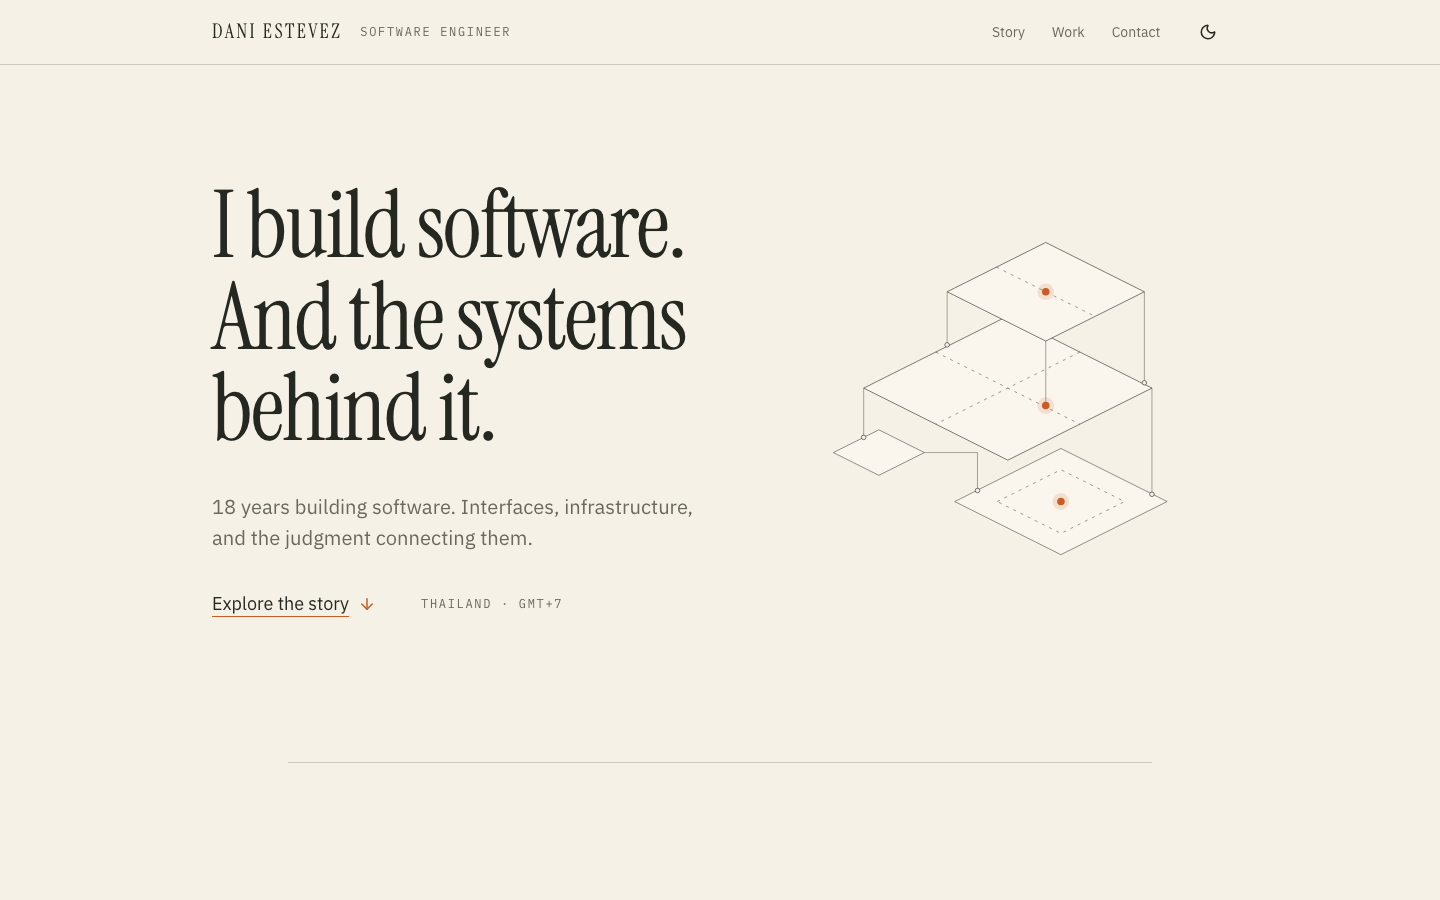
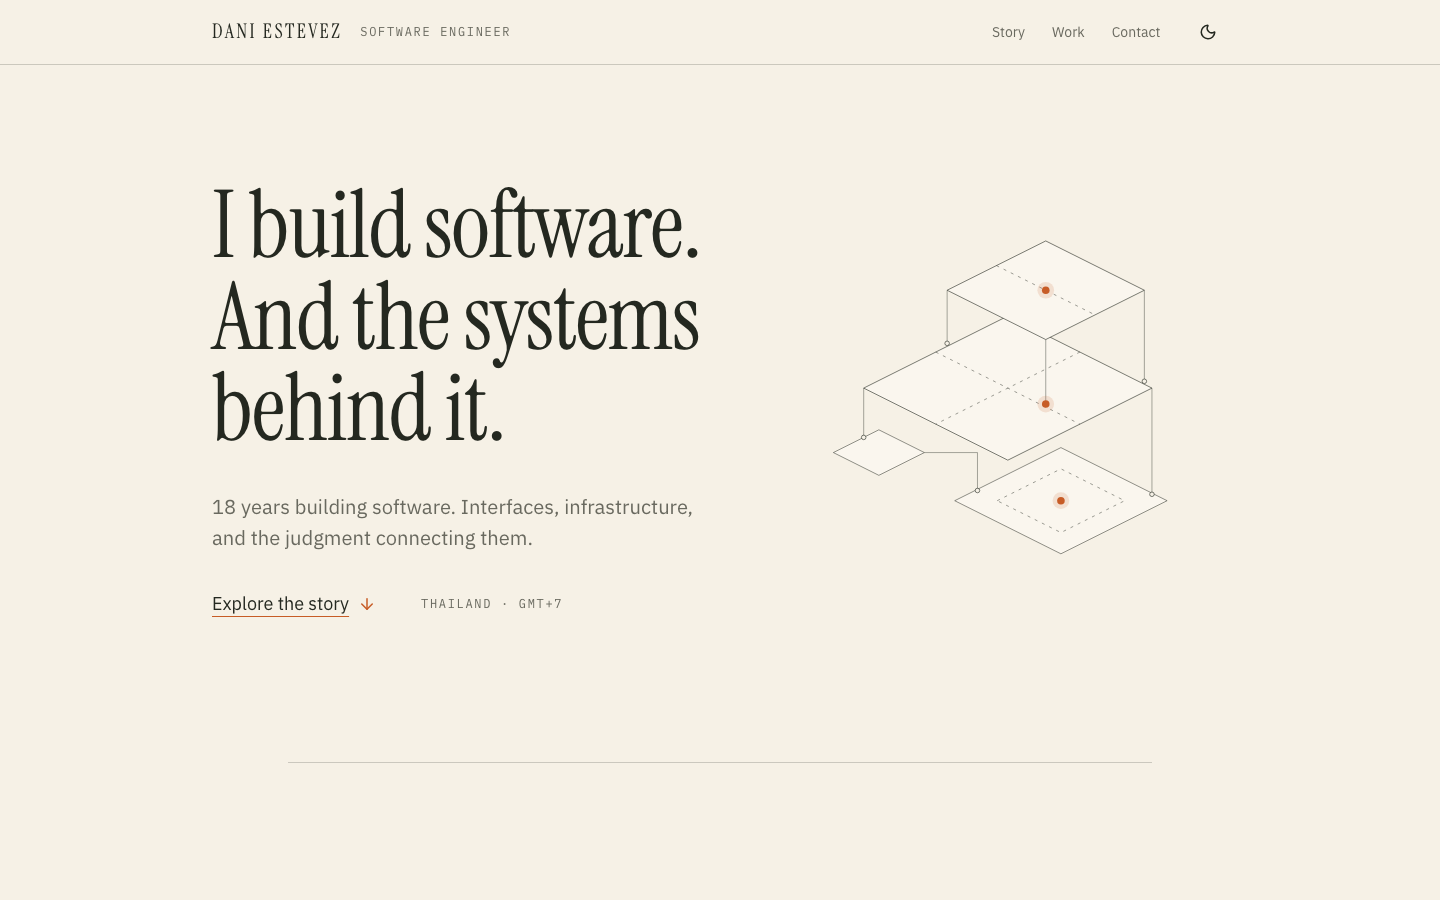
fix(portfolio): address review — focus outline, reduced motion, inert specimen, overflow
- Toggle drops its outline-none/ring so the global :focus-visible outline shows.
- One CSS reduced-motion rule beside MotionProvider; hero float runs once (<5s).
- /system specimen header+hero is inert (one Main nav, one h1 in the a11y tree).
- Scheme toggle reads the document, so two toggles never disagree.
- Header links wrap below ~360px; product host wraps; timeline end not masked.
- Heading keeps the editorial letter-spacing tokens; panel colour rule moved to
  the base layer and re-declares destructive/warning/shadow; disabled TextLink
  gets role=link; Reveal and Toggle use motion tokens, no inline styles.

diff --git a/src/components/ui/toggle.tsx b/src/components/ui/toggle.tsx
@@ -14,7 +14,7 @@ import { cn } from '@/lib/utils'
  * global `:focus-visible` outline from globals.css, like every other control on the page.
  */
 const toggleVariants = cva(
-  "inline-flex items-center justify-center gap-2 rounded-md text-sm font-medium hover:bg-muted/40 hover:text-muted-foreground disabled:pointer-events-none disabled:opacity-50 data-[state=on]:text-accent-foreground [&_svg]:pointer-events-none [&_svg:not([class*='size-'])]:size-4 [&_svg]:shrink-0 transition-[color,background-color,box-shadow] duration-200 ease-in-out aria-invalid:ring-destructive/20 dark:aria-invalid:ring-destructive/40 aria-invalid:border-destructive whitespace-nowrap",
+  "inline-flex items-center justify-center gap-2 rounded-md text-sm font-medium hover:bg-muted/40 hover:text-muted-foreground disabled:pointer-events-none disabled:opacity-50 data-[state=on]:text-accent-foreground [&_svg]:pointer-events-none [&_svg:not([class*='size-'])]:size-4 [&_svg]:shrink-0 transition-[color,background-color,box-shadow] duration-(--duration-base) ease-editorial aria-invalid:ring-destructive/20 dark:aria-invalid:ring-destructive/40 aria-invalid:border-destructive whitespace-nowrap",
   {
     variants: {
       variant: {
@@ -66,19 +66,13 @@ function Toggle({
   // highlight and content are presentational.
   return (
     <TogglePrimitive.Root pressed={isPressed} onPressedChange={handlePressedChange} disabled={disabled} asChild>
-      <motion.button
-        data-slot='toggle'
-        className='relative rounded-md outline-none focus-visible:ring-ring/50 focus-visible:ring-[3px]'
-        whileTap={{ scale: 0.95 }}
-        {...props}
-      >
+      <motion.button data-slot='toggle' className='relative rounded-md' whileTap={{ scale: 0.95 }} {...props}>
         <AnimatePresence>
           {isPressed && (
             <motion.div
               data-slot='toggle-highlight'
               data-state={state}
-              className='bg-accent rounded-md'
-              style={{ position: 'absolute', zIndex: 0, inset: 0 }}
+              className='absolute inset-0 z-0 rounded-md bg-accent'
               initial={{ opacity: 0 }}
               animate={{ opacity: 1 }}
               exit={{ opacity: 0 }}
@@ -89,8 +83,11 @@ function Toggle({
           data-slot='toggle-item'
           data-state={state}
           data-disabled={disabled}
-          className={cn(toggleVariants({ variant, size }), className, 'cursor-pointer disabled:cursor-not-allowed')}
-          style={{ position: 'relative', zIndex: 1 }}
+          className={cn(
+            toggleVariants({ variant, size }),
+            className,
+            'relative z-1 cursor-pointer disabled:cursor-not-allowed'
+          )}
         >
           {children as React.ReactNode}
         </motion.div>

diff --git a/src/app/globals.css b/src/app/globals.css
@@ -147,11 +147,14 @@
   --success: var(--moss);
   --success-foreground: var(--moss-foreground);
 
+  --destructive: #e5674f;
+  --destructive-foreground: #202823;
+  --warning: #e0a548;
+  --warning-foreground: #202823;
+  --header-background: #202823;
+  --shadow-color: rgb(0 0 0 / 0.4);
+  /* Charts and gradients are not used on the panel; they keep the page scheme's values. */
   color-scheme: dark;
-  /* `color` inherits as an already-resolved value, so the panel re-declares it alongside
-     the variables; otherwise text would keep the page scheme's ink on the panel. */
-  color: var(--foreground);
-  background-color: var(--background);
 }
 
 /* Static design tokens: type roles, type scale, layout, motion. Values in px are the brief's
@@ -200,7 +203,7 @@
   --duration-fast: 150ms;
   --duration-base: 250ms;
   --duration-reveal: 500ms;
-  --duration-drift: 9s;
+  --duration-drift: 4.5s;
 
   /* Soft, low shadows — the brief rules out heavy ones. */
   --shadow-2xs: 0 1px 0 0 var(--shadow-color);
@@ -282,6 +285,24 @@
     -webkit-font-smoothing: antialiased;
   }
   /* One visible focus treatment for every keyboard-focusable element. */
+  /* `color` inherits as an already-resolved value, so the panel re-declares it alongside its
+     variables; otherwise text would keep the page scheme's ink. In the base layer so a
+     utility on the Panel itself still wins. */
+  [data-surface="panel"] {
+    color: var(--foreground);
+    background-color: var(--background);
+  }
+  /* The CSS half of reduced motion (motion/react's half is MotionProvider): transitions finish
+     instantly, so hover nudges, chevrons and the /system duration demos do not move. */
+  @media (prefers-reduced-motion: reduce) {
+    *,
+    ::before,
+    ::after {
+      transition-duration: 0.01ms !important;
+      animation-duration: 0.01ms !important;
+      animation-iteration-count: 1 !important;
+    }
+  }
   :focus-visible {
     outline: 2px solid var(--ring);
     outline-offset: 3px;

diff --git a/src/components/system/SystemPage.tsx b/src/components/system/SystemPage.tsx
@@ -195,7 +195,7 @@ export function SystemPage() {
         <Section
           id='motion'
           title='Motion'
-          intro='Point at a row to run its duration. Reduced motion removes movement; content never waits on it.'
+          intro='Point at a row to run its duration. Reduced motion removes movement (CSS and motion/react); content never waits on it.'
         >
           <ul className='flex flex-col'>
             {motionTokens.map((token) => (
@@ -222,8 +222,8 @@ export function SystemPage() {
             ))}
           </ul>
           <div className='grid gap-6 md:grid-cols-2'>
-            <Specimen label='Motion allowed: the planes drift'>
-              <MotionConfig reducedMotion='never'>
+            <Specimen label='Your motion setting: the planes float once'>
+              <MotionConfig reducedMotion='user'>
                 <HeroDiagram className='max-w-sm border border-rule' />
               </MotionConfig>
             </Specimen>
@@ -387,10 +387,12 @@ export function SystemPage() {
             Header and hero
           </Heading>
           <Text size='small' className='text-muted-foreground'>
-            The real components, as rendered on the home page.
+            The real components, as rendered on the home page (inert here: the live header is at the top).
           </Text>
         </div>
-        <div className='border-y border-rule'>
+        {/* A specimen, not a second page: inert keeps its nav, toggle and h1 out of the tab order
+            and the accessibility tree. */}
+        <div inert className='border-y border-rule'>
           <SiteHeader />
           <Hero />
         </div>

diff --git a/src/components/home/SiteHeader.tsx b/src/components/home/SiteHeader.tsx
@@ -2,16 +2,19 @@ import { ColorSchemeToggle, MonoLabel, TextLink } from '@/components/ui'
 import { nav, profile } from '@/content/portfolio'
 import { cn } from '@/lib/utils'
 
-/** DANI ESTEVEZ / SOFTWARE ENGINEER, then Story · Work · Contact and the scheme toggle. */
+/**
+ * DANI ESTEVEZ / SOFTWARE ENGINEER, then Story · Work · Contact and the scheme toggle. Below
+ * about 360px the links wrap under the name instead of pushing the page sideways.
+ */
 export function SiteHeader({ className }: { className?: string }) {
   return (
     <header className={cn('border-b border-rule bg-background/90 backdrop-blur', className)}>
       <nav
         aria-label='Main'
-        className='mx-auto flex h-header max-w-content items-center justify-between gap-4 px-gutter'
+        className='mx-auto flex min-h-header max-w-content flex-wrap items-center justify-between gap-x-4 px-gutter'
       >
         <a href='/' className='flex min-h-11 items-center gap-4'>
-          <span className='whitespace-nowrap font-display text-base uppercase tracking-wordmark text-foreground sm:text-lg'>
+          <span className='whitespace-nowrap font-display text-base uppercase tracking-normal text-foreground sm:text-lg sm:tracking-wordmark'>
             {profile.name}
           </span>
           <MonoLabel className='hidden md:inline'>{profile.role}</MonoLabel>

diff --git a/src/components/home/ProductGrid.tsx b/src/components/home/ProductGrid.tsx
@@ -20,7 +20,7 @@ export function ProductGrid() {
 
       <ul className='mt-14 grid gap-6 sm:grid-cols-2'>
         {products.map((product, index) => (
-          <li key={product.href}>
+          <li key={product.href} className='min-w-0'>
             <Reveal delay={index * 0.1} className='h-full'>
               <motion.a
                 href={product.href}
@@ -39,7 +39,7 @@ export function ProductGrid() {
                       <ArrowUpRight className='h-5 w-5 shrink-0 text-muted-foreground transition-transform group-hover:translate-x-0.5 group-hover:-translate-y-0.5 group-hover:text-primary' />
                     </div>
                     <Text className='text-muted-foreground'>{product.summary}</Text>
-                    <Text as='span' size='xs' muted className='mt-auto pt-2 font-mono'>
+                    <Text as='span' size='xs' muted className='mt-auto pt-2 font-mono wrap-anywhere'>
                       {product.host}
                     </Text>
                   </CardContent>

diff --git a/src/components/home/Reveal.tsx b/src/components/home/Reveal.tsx
@@ -2,6 +2,7 @@
 
 import { motion } from 'motion/react'
 import type { ReactNode } from 'react'
+import { distance, duration, ease } from '@/lib/motion'
 
 type RevealProps = {
   children: ReactNode
@@ -12,16 +13,16 @@ type RevealProps = {
 
 /**
  * Fades and lifts its children in the first time they scroll into view. Reduced motion is
- * handled once, by the `MotionConfig` at the page root, not per instance.
+ * handled once, by the root `MotionProvider`, not per instance.
  */
 export function Reveal({ children, className, delay = 0 }: RevealProps) {
   return (
     <motion.div
       className={className}
-      initial={{ opacity: 0, y: 24 }}
+      initial={{ opacity: 0, y: distance.reveal }}
       whileInView={{ opacity: 1, y: 0 }}
       viewport={{ once: true, margin: '0px 0px -15% 0px' }}
-      transition={{ duration: 0.7, delay, ease: [0.25, 0.46, 0.45, 0.94] }}
+      transition={{ duration: duration.reveal, delay, ease: ease.editorial }}
     >
       {children}
     </motion.div>

diff --git a/src/components/ui/heading.tsx b/src/components/ui/heading.tsx
@@ -32,6 +32,9 @@ const weightClasses = {
   bold: 'font-bold'
 }
 
+// The editorial sizes carry their own letter-spacing token; tracking-tight would override it.
+const editorialSizes = new Set<string | undefined>(['display', 'chapter', 'title'])
+
 type HeadingProps = React.HTMLAttributes<HTMLHeadingElement> & {
   level?: keyof typeof defaultSizeByLevel
   size?: keyof typeof sizeClasses
@@ -44,7 +47,11 @@ const Heading = React.forwardRef<HTMLHeadingElement, HeadingProps>(
     const sizeClass = size ? sizeClasses[size] : defaultSizeByLevel[level]
 
     return (
-      <Tag ref={ref} className={cn(sizeClass, weightClasses[weight], 'tracking-tight', className)} {...props}>
+      <Tag
+        ref={ref}
+        className={cn(sizeClass, weightClasses[weight], !editorialSizes.has(size) && 'tracking-tight', className)}
+        {...props}
+      >
         {children}
       </Tag>
     )

diff --git a/src/components/home/HeroDiagram.tsx b/src/components/home/HeroDiagram.tsx
@@ -12,12 +12,15 @@ function plane(cx: number, cy: number, w: number) {
 
 const line = { vectorEffect: 'non-scaling-stroke' as const }
 
-/** A gentle, slow float. MotionProvider turns it off for reduced-motion visitors. */
+/**
+ * One gentle float up and back, under five seconds so it never needs a pause control
+ * (WCAG 2.2.2). MotionProvider turns it off for reduced-motion visitors.
+ */
 function Drift({ delay, children }: { delay: number; children: ReactNode }) {
   return (
     <motion.g
       animate={{ y: [0, -distance.drift, 0] }}
-      transition={{ duration: duration.drift, delay, repeat: Number.POSITIVE_INFINITY, ease: 'easeInOut' }}
+      transition={{ duration: duration.drift, delay, ease: 'easeInOut' }}
     >
       {children}
     </motion.g>

diff --git a/src/components/ui/color-scheme-toggle.tsx b/src/components/ui/color-scheme-toggle.tsx
@@ -20,7 +20,9 @@ export function ColorSchemeToggle() {
   }, [])
 
   function flip() {
-    const next: ColorScheme = scheme === 'dark' ? 'light' : 'dark'
+    // Read the document, not local state: another toggle on the page may have flipped it.
+    const current = document.documentElement.getAttribute(COLOR_SCHEME_ATTRIBUTE)
+    const next: ColorScheme = current === 'dark' ? 'light' : 'dark'
     document.documentElement.setAttribute(COLOR_SCHEME_ATTRIBUTE, next)
     // biome-ignore lint/suspicious/noDocumentCookie: Cookie Store API lacks Safari/Firefox support; document.cookie is the cross-browser write path
     document.cookie = `${COLOR_SCHEME_COOKIE}=${next}; Path=/; Max-Age=${COLOR_SCHEME_COOKIE_MAX_AGE}; SameSite=Lax`

diff --git a/src/components/ui/timeline.tsx b/src/components/ui/timeline.tsx
@@ -23,7 +23,7 @@ function Timeline({ label, className, children, ...props }: TimelineProps) {
       )}
       {...props}
     >
-      <ol className='relative flex min-w-max gap-10 pt-6 before:absolute before:inset-x-0 before:top-6 before:h-px before:bg-rule-strong md:min-w-0 md:justify-between'>
+      <ol className='relative flex min-w-max gap-10 pt-6 pr-16 md:pr-0 before:absolute before:inset-x-0 before:top-6 before:h-px before:bg-rule-strong md:min-w-0 md:justify-between'>
         {children}
       </ol>
     </div>

diff --git a/src/components/home/Hero.tsx b/src/components/home/Hero.tsx
@@ -5,7 +5,7 @@ import { HeroDiagram } from './HeroDiagram'
 /**
  * First screen: the approved headline (one desktop line per entry), the summary, the story
  * link and the location, with the architectural drawing beside it — under it on narrow
- * screens. The text renders visible from the server; only the drawing drifts.
+ * screens. The text renders visible from the server; only the drawing moves, once.
  */
 export function Hero() {
   return (

diff --git a/src/components/ui/text-link.tsx b/src/components/ui/text-link.tsx
@@ -44,6 +44,8 @@ function TextLink({ variant, icon, disabled, className, children, href, ...props
   return (
     <a
       href={disabled ? undefined : href}
+      // Without href an <a> has no link role, and aria-disabled needs one.
+      role={disabled ? 'link' : undefined}
       aria-disabled={disabled || undefined}
       target={external ? '_blank' : undefined}
       rel={external ? 'noreferrer' : undefined}
